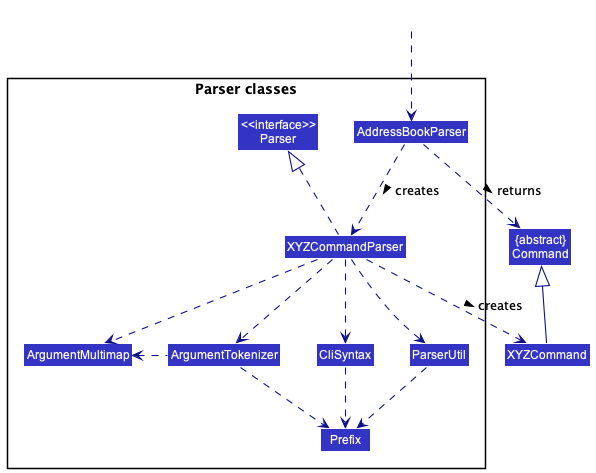
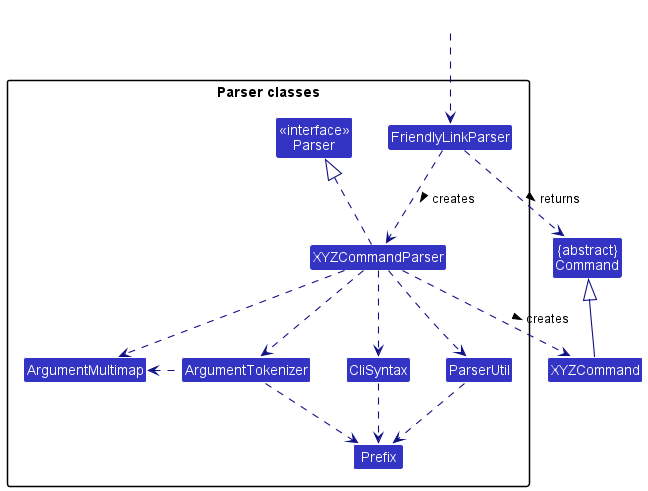
Update Logic section of DG

diff --git a/docs/DeveloperGuide.md b/docs/DeveloperGuide.md
@@ -94,7 +94,6 @@ The `UI` component,
 Here's a (partial) class diagram of the `Logic` component:
 
 <img src="images/LogicClassDiagram.png" width="550"/>
-** TODO: Update image **
 
 How the `Logic` component works:
 1. When `Logic` is called upon to execute a command, it uses the `FriendlyLinkParser` class to parse the user command.
@@ -102,18 +101,16 @@ How the `Logic` component works:
 1. The command can communicate with the `Model` when it is executed (e.g. to add a pair).
 1. The result of the command execution is encapsulated as a `CommandResult` object which is returned back from `Logic`.
 
-The Sequence Diagram below illustrates the interactions within the `Logic` component for the `execute("delete 1")` API call.
+The Sequence Diagram below illustrates the interactions within the `Logic` component for the `execute("delete_elderly S1234567I")` API call.
 
-![Interactions Inside the Logic Component for the `delete_elderly S1234567A` Command](images/DeleteSequenceDiagram.png)
-** TODO: update image **
+![Interactions Inside the Logic Component for the `delete_elderly S1234567I` Command](images/DeleteSequenceDiagram.png)
 
-<div markdown="span" class="alert alert-info">:information_source: **Note:** The lifeline for `DeleteCommandParser` should end at the destroy marker (X) but due to a limitation of PlantUML, the lifeline reaches the end of diagram.
+<div markdown="span" class="alert alert-info">:information_source: **Note:** The lifeline for `DeleteElderlyCommandParser` should end at the destroy marker (X) but due to a limitation of PlantUML, the lifeline reaches the end of diagram.
 </div>
 
 Here are the other classes in `Logic` (omitted from the class diagram above) that are used for parsing a user command:
 
 <img src="images/ParserClasses.png" width="600"/>
-** TODO: Update image **
 
 How the parsing works:
 * When called upon to parse a user command, the `FriendlyLinkParser` class creates an `XYZCommandParser` (`XYZ` is a placeholder for the specific command name e.g., `AddPairCommandParser`) which uses the other classes shown above to parse the user command and create a `XYZCommand` object (e.g., `AddPairCommand`) which the `FriendlyLinkParser` returns back as a `Command` object.
@@ -231,6 +228,8 @@ of `Model` respectively.
 As an example, the following sequence diagram shows the sequence for the command `edit S1234567I n/Shaun ag/21`, where
 the NRIC `S1234567I` belongs to an existing **volunteer**:
 ![](images/developerGuide/EditSequenceDiagram.png)
+
+:information_source: **Note:** The lifeline for `EditCommandParser` should end at the destroy marker (X) but due to a limitation of PlantUML, the lifeline reaches the end of diagram.
 
 #### Find by keyword
 
